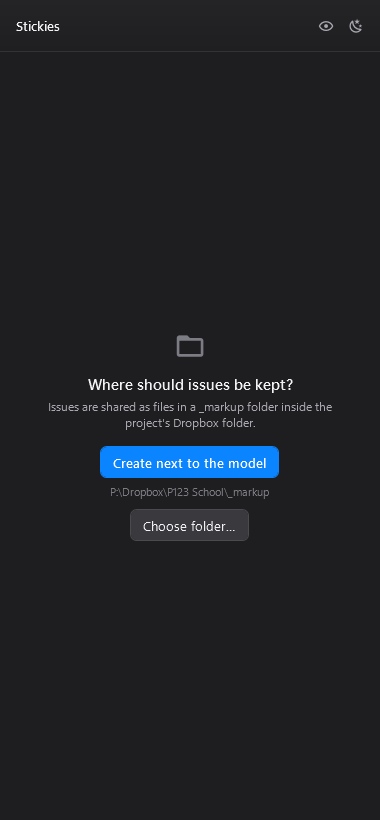
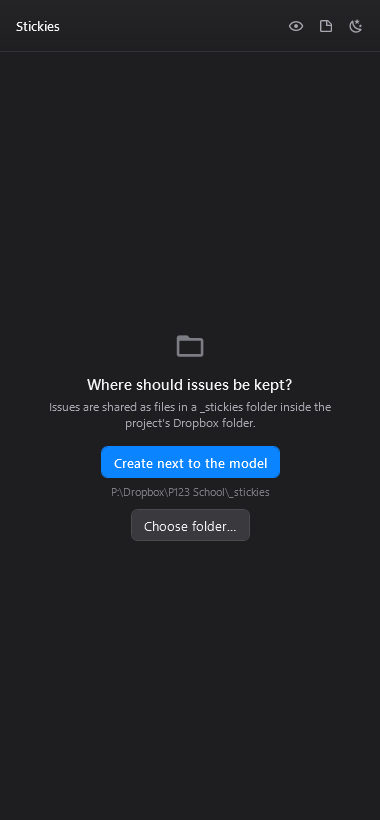
Rename the shared folder to _stickies; data format document
The shared folder is now _stickies. An existing _markup Stickies folder (one
with project.json) is renamed in place the first time it is found, next to
the model, as the remembered folder or when picked; the saved setting follows.
docs/DATA-FORMAT.md describes the files for other tools; screenshots updated.

diff --git a/Stickies/UI/MarkupPane.xaml b/Stickies/UI/MarkupPane.xaml
@@ -240,11 +240,11 @@
                 <TextBlock Style="{StaticResource PaneMessageText}" Text="Review issues belong to project models. Switch to a project to see them." />
             </StackPanel>
 
-            <!--  No markup folder yet: asked once, then remembered  -->
+            <!--  No Stickies folder yet: asked once, then remembered  -->
             <StackPanel Style="{StaticResource PaneMessage}" Visibility="{Binding Session.NeedsFolder, Converter={StaticResource BoolToVis}}">
                 <materialDesign:PackIcon Kind="FolderOutline" Style="{StaticResource PaneMessageIcon}" />
                 <TextBlock Style="{StaticResource PaneMessageTitle}" Text="Where should issues be kept?" />
-                <TextBlock Style="{StaticResource PaneMessageText}" Text="Issues are shared as files in a _markup folder inside the project's Dropbox folder." />
+                <TextBlock Style="{StaticResource PaneMessageText}" Text="Issues are shared as files in a _stickies folder inside the project's Dropbox folder." />
                 <StackPanel Visibility="{Binding Session.CanCreateNextToModel, Converter={StaticResource BoolToVis}}">
                     <Button
                         Margin="0,16,0,0"
@@ -273,7 +273,7 @@
                     Click="ChooseFolder_Click"
                     Content="Choose folder…"
                     Style="{StaticResource Button.Secondary}"
-                    ToolTip="Pick the project's shared folder (or an existing _markup folder)" />
+                    ToolTip="Pick the project's shared folder (or an existing _stickies folder)" />
             </StackPanel>
 
             <!--  Error  -->
@@ -845,7 +845,7 @@
                                 Content="Change…"
                                 DockPanel.Dock="Right"
                                 Style="{StaticResource Button.Plain}"
-                                ToolTip="Use another markup folder for this model" />
+                                ToolTip="Use another Stickies folder for this model" />
                             <materialDesign:PackIcon
                                 Width="14"
                                 Height="14"

diff --git a/Stickies.Core/Store/MarkupFolder.cs b/Stickies.Core/Store/MarkupFolder.cs
@@ -6,16 +6,19 @@ namespace Stickies.Core.Store
     /// <summary>
     /// The shared folder layout:
     /// <code>
-    /// &lt;project&gt;/_markup/
+    /// &lt;project&gt;/_stickies/
     ///   project.json     schema version, model GUID, project name
     ///   active/          one file per open issue (&lt;id&gt;.json)
-    ///   archive/         closed issues compacted by month (YYYY-MM.json)
-    ///   compact.lock     held by whichever session is compacting
+    ///   archive/         done issues by month (YYYY-MM.json)
+    ///   compact.lock     held by whichever session is archiving
     /// </code>
+    /// Early builds named the folder <c>_markup</c>; such a folder is renamed to <c>_stickies</c> the first time it is
+    /// found (see <see cref="MigrateLegacy"/>).
     /// </summary>
     public sealed class MarkupFolder
     {
-        public const string FolderName = "_markup";
+        public const string FolderName = "_stickies";
+        public const string LegacyFolderName = "_markup";
 
         public MarkupFolder(string root)
         {
@@ -36,7 +39,7 @@ namespace Stickies.Core.Store
         /// <summary>The archive file for a month: archive/YYYY-MM.json.</summary>
         public string ArchivePath(int year, int month) => Path.Combine(ArchiveDir, year.ToString("0000") + "-" + month.ToString("00") + ".json");
 
-        /// <summary><c>_markup</c> next to the model file, or null when the model has no folder on disk.</summary>
+        /// <summary><c>_stickies</c> next to the model file, or null when the model has no folder on disk.</summary>
         public static string NextToModel(string modelPath)
         {
             if (string.IsNullOrWhiteSpace(modelPath) || !Path.IsPathRooted(modelPath)) return null;
@@ -45,26 +48,69 @@ namespace Stickies.Core.Store
         }
 
         /// <summary>
-        /// The markup root for a folder the user picked: the folder itself when it is a <c>_markup</c> folder,
-        /// otherwise its <c>_markup</c> subfolder.
+        /// The Stickies root for a folder the user picked: the folder itself when it is a <c>_stickies</c> folder (or an
+        /// old <c>_markup</c> one, renamed), otherwise its <c>_stickies</c> subfolder.
         /// </summary>
         public static string FromPickedFolder(string picked)
         {
             var full = Path.GetFullPath(picked).TrimEnd(Path.DirectorySeparatorChar, Path.AltDirectorySeparatorChar);
-            return string.Equals(Path.GetFileName(full), FolderName, StringComparison.OrdinalIgnoreCase)
-                ? full
-                : Path.Combine(full, FolderName);
+            var name = Path.GetFileName(full);
+            if (string.Equals(name, FolderName, StringComparison.OrdinalIgnoreCase)) return full;
+            if (string.Equals(name, LegacyFolderName, StringComparison.OrdinalIgnoreCase)) return MigrateLegacy(full);
+            var root = Path.Combine(full, FolderName);
+            if (!Directory.Exists(root)) MigrateLegacy(Path.Combine(full, LegacyFolderName));
+            return root;
         }
 
         /// <summary>
-        /// Where this model's markup lives: the folder the user chose (when it still exists), else an existing
-        /// <c>_markup</c> next to the model, else null (ask the user).
+        /// Where this model's notes live: the folder the user chose (when it still exists), else a <c>_stickies</c>
+        /// folder next to the model, else null (ask the user). Old <c>_markup</c> folders are renamed on the way.
         /// </summary>
         public static string Resolve(string rememberedFolder, string modelPath)
         {
-            if (!string.IsNullOrWhiteSpace(rememberedFolder) && Directory.Exists(rememberedFolder)) return Path.GetFullPath(rememberedFolder);
+            if (!string.IsNullOrWhiteSpace(rememberedFolder))
+            {
+                var remembered = Path.GetFullPath(rememberedFolder).TrimEnd(Path.DirectorySeparatorChar, Path.AltDirectorySeparatorChar);
+                if (string.Equals(Path.GetFileName(remembered), LegacyFolderName, StringComparison.OrdinalIgnoreCase))
+                {
+                    var renamed = Path.Combine(Path.GetDirectoryName(remembered) ?? "", FolderName);
+                    if (Directory.Exists(renamed)) return renamed; // renamed already (by this or another session)
+                    if (Directory.Exists(remembered)) return MigrateLegacy(remembered);
+                }
+                else if (Directory.Exists(remembered)) return remembered;
+            }
+
             var next = NextToModel(modelPath);
-            return next != null && Directory.Exists(next) ? next : null;
+            if (next == null) return null;
+            if (Directory.Exists(next)) return next;
+            var legacy = Path.Combine(Path.GetDirectoryName(next) ?? "", LegacyFolderName);
+            if (!IsStickiesFolder(legacy)) return null;
+            var migrated = MigrateLegacy(legacy);
+            return Directory.Exists(migrated) ? migrated : null;
         }
+
+        /// <summary>
+        /// Renames an old <c>_markup</c> Stickies folder (one with project.json) to <c>_stickies</c> next to it. Returns
+        /// the new path, or the old one when it cannot be renamed (in use, or a <c>_stickies</c> folder is already there),
+        /// so the notes stay reachable either way.
+        /// </summary>
+        public static string MigrateLegacy(string legacyPath)
+        {
+            if (!IsStickiesFolder(legacyPath)) return legacyPath;
+            var target = Path.Combine(Path.GetDirectoryName(Path.GetFullPath(legacyPath)) ?? "", FolderName);
+            if (Directory.Exists(target)) return legacyPath;
+            try
+            {
+                Directory.Move(legacyPath, target);
+                return target;
+            }
+            catch (Exception ex) when (ex is IOException || ex is UnauthorizedAccessException)
+            {
+                return legacyPath;
+            }
+        }
+
+        private static bool IsStickiesFolder(string path) =>
+            !string.IsNullOrEmpty(path) && File.Exists(Path.Combine(path, "project.json"));
     }
 }

diff --git a/Stickies/Session/MarkupSession.cs b/Stickies/Session/MarkupSession.cs
@@ -20,7 +20,7 @@ namespace Stickies.Session
         /// <summary>A family document is active.</summary>
         Family,
 
-        /// <summary>No <c>_markup</c> folder found: the user creates or chooses one (asked once, then remembered).</summary>
+        /// <summary>No <c>_stickies</c> folder found: the user creates or chooses one (asked once, then remembered).</summary>
         NeedsFolder,
 
         Connected,
@@ -108,20 +108,26 @@ namespace Stickies.Session
                 ApplyOverlaySetting();
 
                 var root = MarkupFolder.Resolve(_settings.MarkupFolder, model.ModelPath);
+                if (root != null && _settings.MarkupFolder != null &&
+                    !string.Equals(root, Path.GetFullPath(_settings.MarkupFolder), StringComparison.OrdinalIgnoreCase))
+                {
+                    _settings.MarkupFolder = root; // an old _markup folder was renamed to _stickies
+                    SaveSettings();
+                }
                 if (root == null) State = SessionState.NeedsFolder;
                 else Connect(root);
             }
             RefreshAll(); // the state may be unchanged while the model and folder are not
         }
 
-        /// <summary>Creates <c>_markup</c> next to the model (central) file and uses it.</summary>
+        /// <summary>Creates <c>_stickies</c> next to the model (central) file and uses it.</summary>
         public void CreateNextToModel()
         {
             if (!CanCreateNextToModel) return;
             UseFolder(ProposedFolder, remember: false);
         }
 
-        /// <summary>Uses a folder the user picked (the project folder or a <c>_markup</c> folder) and remembers it.</summary>
+        /// <summary>Uses a folder the user picked (the project folder or a <c>_stickies</c> folder) and remembers it.</summary>
         public void UseFolder(string picked) => UseFolder(MarkupFolder.FromPickedFolder(picked), remember: true);
 
         private void UseFolder(string root, bool remember)
@@ -138,8 +144,8 @@ namespace Stickies.Session
             }
             catch (Exception ex)
             {
-                AppLog.Error("Setting up the markup folder failed: " + root, ex);
-                Fail("Could not set up the markup folder " + root + ": " + ex.Message);
+                AppLog.Error("Setting up the Stickies folder failed: " + root, ex);
+                Fail("Could not set up the Stickies folder " + root + ": " + ex.Message);
             }
         }
 
@@ -153,7 +159,7 @@ namespace Stickies.Session
                 _store = new IssueStore(folder);
                 var project = _store.ReadProject();
                 if (project != null && !string.IsNullOrEmpty(project.ModelGuid) && project.ModelGuid != _model.ModelGuid)
-                    AppLog.Warn("Markup folder " + root + " was set up for another model (" + project.ModelGuid + ").");
+                    AppLog.Warn("Stickies folder " + root + " was set up for another model (" + project.ModelGuid + ").");
 
                 _watcher = new MarkupWatcher(folder);
                 StartCompaction(_store);
@@ -163,8 +169,8 @@ namespace Stickies.Session
             }
             catch (Exception ex)
             {
-                AppLog.Error("Opening the markup folder failed: " + root, ex);
-                Fail("Could not open the markup folder " + root + ": " + ex.Message);
+                AppLog.Error("Opening the Stickies folder failed: " + root, ex);
+                Fail("Could not open the Stickies folder " + root + ": " + ex.Message);
             }
         }
 
@@ -208,7 +214,7 @@ namespace Stickies.Session
         /// </summary>
         public async Task<SaveOutcome> SaveAsync(Issue issue, DateTimeOffset? expectedModified)
         {
-            var store = _store ?? throw new InvalidOperationException("No markup folder is connected.");
+            var store = _store ?? throw new InvalidOperationException("No Stickies folder is connected.");
             var outcome = await Task.Run(() => store.Save(issue, expectedModified));
             if (outcome == SaveOutcome.Saved && ReferenceEquals(store, _store))
             {

diff --git a/Tests/Stickies.Core.Tests/StoreTests.cs b/Tests/Stickies.Core.Tests/StoreTests.cs
@@ -16,7 +16,7 @@ namespace Stickies.Core.Tests
         {
             using (var dir = new TempDir())
             {
-                var folder = new MarkupFolder(Path.Combine(dir.Path, "_markup"));
+                var folder = new MarkupFolder(Path.Combine(dir.Path, "_stickies"));
                 var store = new IssueStore(folder);
 
                 store.Initialize(new MarkupProject { ModelGuid = "first", ProjectName = "P1" });
@@ -165,8 +165,8 @@ namespace Stickies.Core.Tests
             using (var dir = new TempDir())
             {
                 var model = Path.Combine(dir.Path, "Project", "Model.rvt");
-                var nextTo = Path.Combine(dir.Path, "Project", "_markup");
-                var chosen = Path.Combine(dir.Path, "Elsewhere", "_markup");
+                var nextTo = Path.Combine(dir.Path, "Project", "_stickies");
+                var chosen = Path.Combine(dir.Path, "Elsewhere", "_stickies");
 
                 Assert.Null(MarkupFolder.Resolve(null, model));            // nothing yet: ask the user
                 Directory.CreateDirectory(nextTo);
@@ -183,6 +183,48 @@ namespace Stickies.Core.Tests
         }
 
         [Fact]
+        public void Old_markup_folder_next_to_the_model_is_renamed_to_stickies()
+        {
+            using (var dir = new TempDir())
+            {
+                var model = Path.Combine(dir.Path, "Project", "Model.rvt");
+                var legacy = Path.Combine(dir.Path, "Project", "_markup");
+                var store = new IssueStore(new MarkupFolder(legacy));
+                store.Initialize(new MarkupProject { ModelGuid = "m" });
+                store.Save(SerializationTests.FullIssue());
+
+                var root = MarkupFolder.Resolve(null, model);
+
+                Assert.Equal(Path.Combine(dir.Path, "Project", "_stickies"), root);
+                Assert.False(Directory.Exists(legacy));
+                Assert.Single(new IssueStore(new MarkupFolder(root)).LoadActive().Issues);
+            }
+        }
+
+        [Fact]
+        public void A_remembered_or_picked_markup_folder_is_renamed_too_and_unrelated_markup_folders_are_left_alone()
+        {
+            using (var dir = new TempDir())
+            {
+                var remembered = Path.Combine(dir.Path, "A", "_markup");
+                new IssueStore(new MarkupFolder(remembered)).Initialize(new MarkupProject { ModelGuid = "m" });
+                Assert.Equal(Path.Combine(dir.Path, "A", "_stickies"), MarkupFolder.Resolve(remembered, null));
+                Assert.Equal(Path.Combine(dir.Path, "A", "_stickies"), MarkupFolder.Resolve(remembered, null)); // already renamed
+
+                var picked = Path.Combine(dir.Path, "B");
+                new IssueStore(new MarkupFolder(Path.Combine(picked, "_markup"))).Initialize(new MarkupProject { ModelGuid = "m" });
+                Assert.Equal(Path.Combine(picked, "_stickies"), MarkupFolder.FromPickedFolder(picked));
+                Assert.True(Directory.Exists(Path.Combine(picked, "_stickies")));
+
+                // A folder that merely happens to be called _markup (no project.json) is not touched.
+                var foreign = Path.Combine(dir.Path, "C", "_markup");
+                Directory.CreateDirectory(foreign);
+                Assert.Null(MarkupFolder.Resolve(null, Path.Combine(dir.Path, "C", "Model.rvt")));
+                Assert.True(Directory.Exists(foreign));
+            }
+        }
+
+        [Fact]
         public void Local_settings_store_defaults_and_round_trips()
         {
             using (var dir = new TempDir())
@@ -190,7 +232,7 @@ namespace Stickies.Core.Tests
                 var store = new LocalSettingsStore(dir.Path);
                 Assert.True(store.Load("guid-1").OverlayVisible);
 
-                store.Save("guid-1", new LocalSettings { OverlayVisible = false, MarkupFolder = @"D:\x\_markup" });
+                store.Save("guid-1", new LocalSettings { OverlayVisible = false, MarkupFolder = @"D:\x\_stickies" });
                 Assert.False(store.Load("guid-1").OverlayVisible);
                 Assert.True(store.Load("guid-2").OverlayVisible);
 

diff --git a/Stickies/UI/MarkupPane.xaml.cs b/Stickies/UI/MarkupPane.xaml.cs
@@ -174,7 +174,7 @@ namespace Stickies.UI
             var folder = Session.FolderPath;
             if (string.IsNullOrEmpty(folder)) return;
             try { Process.Start(new ProcessStartInfo("explorer.exe", "\"" + folder + "\"") { UseShellExecute = true }); }
-            catch (Exception ex) { Infrastructure.AppLog.Warn("Opening the markup folder failed: " + ex.Message); }
+            catch (Exception ex) { Infrastructure.AppLog.Warn("Opening the Stickies folder failed: " + ex.Message); }
         }
 
         private void ChooseFolder_Click(object sender, RoutedEventArgs e)
@@ -187,7 +187,7 @@ namespace Stickies.UI
         {
             using (var dialog = new System.Windows.Forms.FolderBrowserDialog
             {
-                Description = "Choose the project's shared folder. Issues go into its _markup folder.",
+                Description = "Choose the project's shared folder. Issues go into its _stickies folder.",
                 ShowNewFolderButton = true
             })
             {

diff --git a/Tests/UiHarness/Program.cs b/Tests/UiHarness/Program.cs
@@ -93,11 +93,11 @@ namespace Stickies.UiHarness
             };
             session.SetModel(model);
             Pump();
-            Check(session.NeedsFolder && session.CanCreateNextToModel, "no _markup yet: asks where to keep issues");
+            Check(session.NeedsFolder && session.CanCreateNextToModel, "no _stickies yet: asks where to keep issues");
             Capture(pane, "02_needs_folder_dark.png");
             Click(pane, "Create next to the model");
             Check(WaitFor(() => session.IsConnected), "create next to the model connects");
-            var root = Path.Combine(dropbox, "_markup");
+            var root = Path.Combine(dropbox, "_stickies");
             var colleague = new IssueStore(new MarkupFolder(root));
             Check(colleague.ReadProject()?.ModelGuid == model.ModelGuid, "project.json names the model");
             Check(vm.ShowNoIssues, "empty project shows 'No issues yet'");

diff --git a/Stickies.Core/Models/Issue.cs b/Stickies.Core/Models/Issue.cs
@@ -9,7 +9,7 @@ namespace Stickies.Core.Models
     public enum IssuePriority { Low, Normal, High }
 
     /// <summary>
-    /// One review issue. While open it is stored as <c>_markup/active/&lt;id&gt;.json</c>; the file name is the id, so two
+    /// One review issue. While open it is stored as <c>_stickies/active/&lt;id&gt;.json</c>; the file name is the id, so two
     /// users never write the same new file. Geometry is in metres, model coordinates; elements and views are referenced
     /// by UniqueId, never ElementId.
     /// </summary>

diff --git a/Stickies.Core/Models/LocalSettings.cs b/Stickies.Core/Models/LocalSettings.cs
@@ -13,7 +13,7 @@ namespace Stickies.Core.Models
 
         [JsonProperty(Order = -10)] public int SchemaVersion { get; set; } = CurrentSchemaVersion;
 
-        /// <summary>The project's <c>_markup</c> folder chosen by the user; null = look next to the model.</summary>
+        /// <summary>The project's <c>_stickies</c> folder chosen by the user; null = look next to the model.</summary>
         public string MarkupFolder { get; set; }
 
         public bool OverlayVisible { get; set; } = true;

diff --git a/Tests/Stickies.Core.Tests/CompactorTests.cs b/Tests/Stickies.Core.Tests/CompactorTests.cs
@@ -28,7 +28,7 @@ namespace Stickies.Core.Tests
 
         private static (MarkupFolder folder, IssueStore store) Setup(TempDir dir)
         {
-            var folder = new MarkupFolder(Path.Combine(dir.Path, "_markup"));
+            var folder = new MarkupFolder(Path.Combine(dir.Path, "_stickies"));
             var store = new IssueStore(folder);
             store.Initialize(new MarkupProject { ModelGuid = "m" });
             return (folder, store);

diff --git a/Stickies/Revit/DocumentTracker.cs b/Stickies/Revit/DocumentTracker.cs
@@ -91,7 +91,7 @@ namespace Stickies.Revit
             };
         }
 
-        /// <summary>The model file whose folder holds <c>_markup</c>: the central file for workshared models.</summary>
+        /// <summary>The model file whose folder holds <c>_stickies</c>: the central file for workshared models.</summary>
         private static string ModelFolderPath(Document doc)
         {
             string path = null;

diff --git a/Stickies.Core/Models/MarkupProject.cs b/Stickies.Core/Models/MarkupProject.cs
@@ -2,7 +2,7 @@ using Newtonsoft.Json;
 
 namespace Stickies.Core.Models
 {
-    /// <summary><c>_markup/project.json</c>: which model the folder belongs to.</summary>
+    /// <summary><c>_stickies/project.json</c>: which model the folder belongs to.</summary>
     public class MarkupProject
     {
         public const int CurrentSchemaVersion = 1;

diff --git a/Tests/Stickies.Core.Tests/SerializationTests.cs b/Tests/Stickies.Core.Tests/SerializationTests.cs
@@ -121,7 +121,7 @@ namespace Stickies.Core.Tests
         {
             var settings = new LocalSettings
             {
-                MarkupFolder = @"D:\Dropbox\P123\_markup",
+                MarkupFolder = @"D:\Dropbox\P123\_stickies",
                 OverlayVisible = false,
                 Filter = new IssueFilter
                 {
